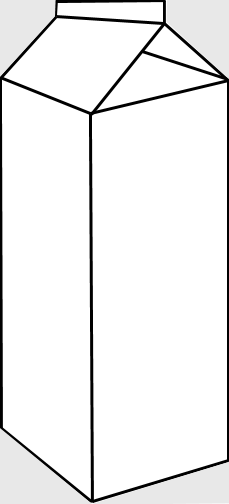
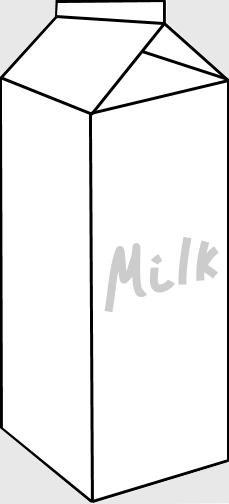
Updated milk carton image

Changed region(s): [[0.4585, 0.4464, 0.9476, 0.625]]

diff --git a/bucket/scale.html b/bucket/scale.html
@@ -43,7 +43,7 @@
 			position: absolute;
 			background-color: white;
 			opacity: .7;
-			bottom: 20px;
+			bottom: 0px;
 		}
 	</style>
 </head>
